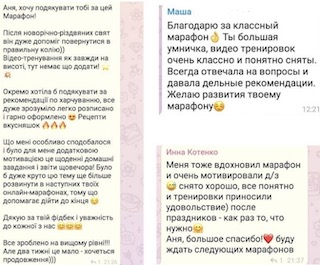
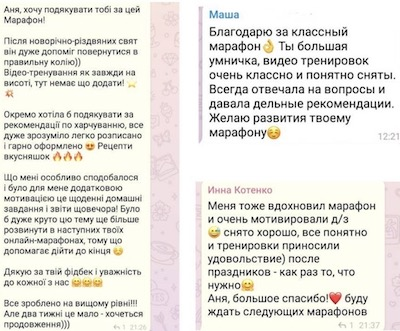
changed slider

diff --git a/index.html b/index.html
@@ -54,8 +54,8 @@
             <ul class="about-marathon__wishes-list">
                 <li class="about-marathon__wishes-item">Прийти в форму після свят та скинути до 5 зайвих кілограм.</li>
                 <li class="about-marathon__wishes-item">Підтягнути та зміцнити м‘язи всього тіла.</li>
-                <li class="about-marathon__wishes-item">Налагодити режим харчування, їсти смачно та збалансовано.</li>
-                <li class="about-marathon__wishes-item">Смачно та збалансовано харчуватись і тримати вагу в нормі.</li>
+                <li class="about-marathon__wishes-item">Покращити гнучкість.</li>
+                <li class="about-marathon__wishes-item">Налагодити режим прийомів їжі, харчуючись смачно та збалансовано.</li>
                 <li class="about-marathon__wishes-item">Отримати заряд мотивації.</li>
             </ul>
         </div>
@@ -80,7 +80,7 @@
                     <img class="steps-img" src="images/step3.svg" alt="img">
                     <div class="steps-content">
                         <h4 class="steps-title">Меню - конструктор на два тижні</h4>
-                        <span class="stps-info">можна використовувати і після марафону</span>
+                        <span class="stps-info">який можна використовувати і після марафону</span>
                     </div>
                 </li>
                 <li class="about-marathon__steps-item">
@@ -103,13 +103,15 @@
     </section>
     
     <section class="container">
-        <blockquote class="blockquote-content">“Ти все ще ведеш малорухливий спосіб і вже забула як це, мати тонку талію?  Долучайся до марафону та зроби перший крок до тіла своєї мрії.”</blockquote>
+        <blockquote class="blockquote-content">“Все ще ведеш малорухливий спосіб життя, а тіло вже давно не виглядає привабливим? Чи трохи розслабилась на свята і хочеш повернутись до режиму?”</blockquote>
     </section>
+
     <section class="container">
         <a href="#form">
             <button class="accent__btn btn">Прийняти участь</button>
         </a>
     </section>
+
     <section class="container author">
         <h3 class="secondary-title author-title">Автор марафону</h3>
         <img src="images/author.svg" alt="img">
@@ -149,6 +151,7 @@
                         <ul class="weeks__list">
                             <li class="weeks__item">Силове тренування на ноги та сідниці та спину.</li>
                             <li class="weeks__item">Меню-конструктор.</li>
+                            <li class="weeks__item">Коротко про БЖУ.</li>
                             <li class="weeks__item">Робимо заміри, зважування та фото для відстеження результатів за 2 тижні.</li>
                         </ul>
                 </div>

diff --git a/js/program.js b/js/program.js
@@ -26,9 +26,16 @@ $(function () {
             // variableWidth:true,
 
             // centerPadding: 50px,
-
-
             mobileFirst: true,
+            responsive:[
+                {
+                    breakpoint: 768,
+                    settings: {
+                        slidesToShow: 2
+                    }
+                }
+            ]
+            
         });
     });
 

diff --git a/styles/style.css b/styles/style.css
@@ -454,7 +454,8 @@ background-position: left 10% bottom 50%;
 
 
 .slider__content{
-    /* position: relative;padding: 0 50px; */
+    position: relative;
+    /* padding: 0 50px; */
 }
 .slider__content .slick-arrow{
     position: absolute;
